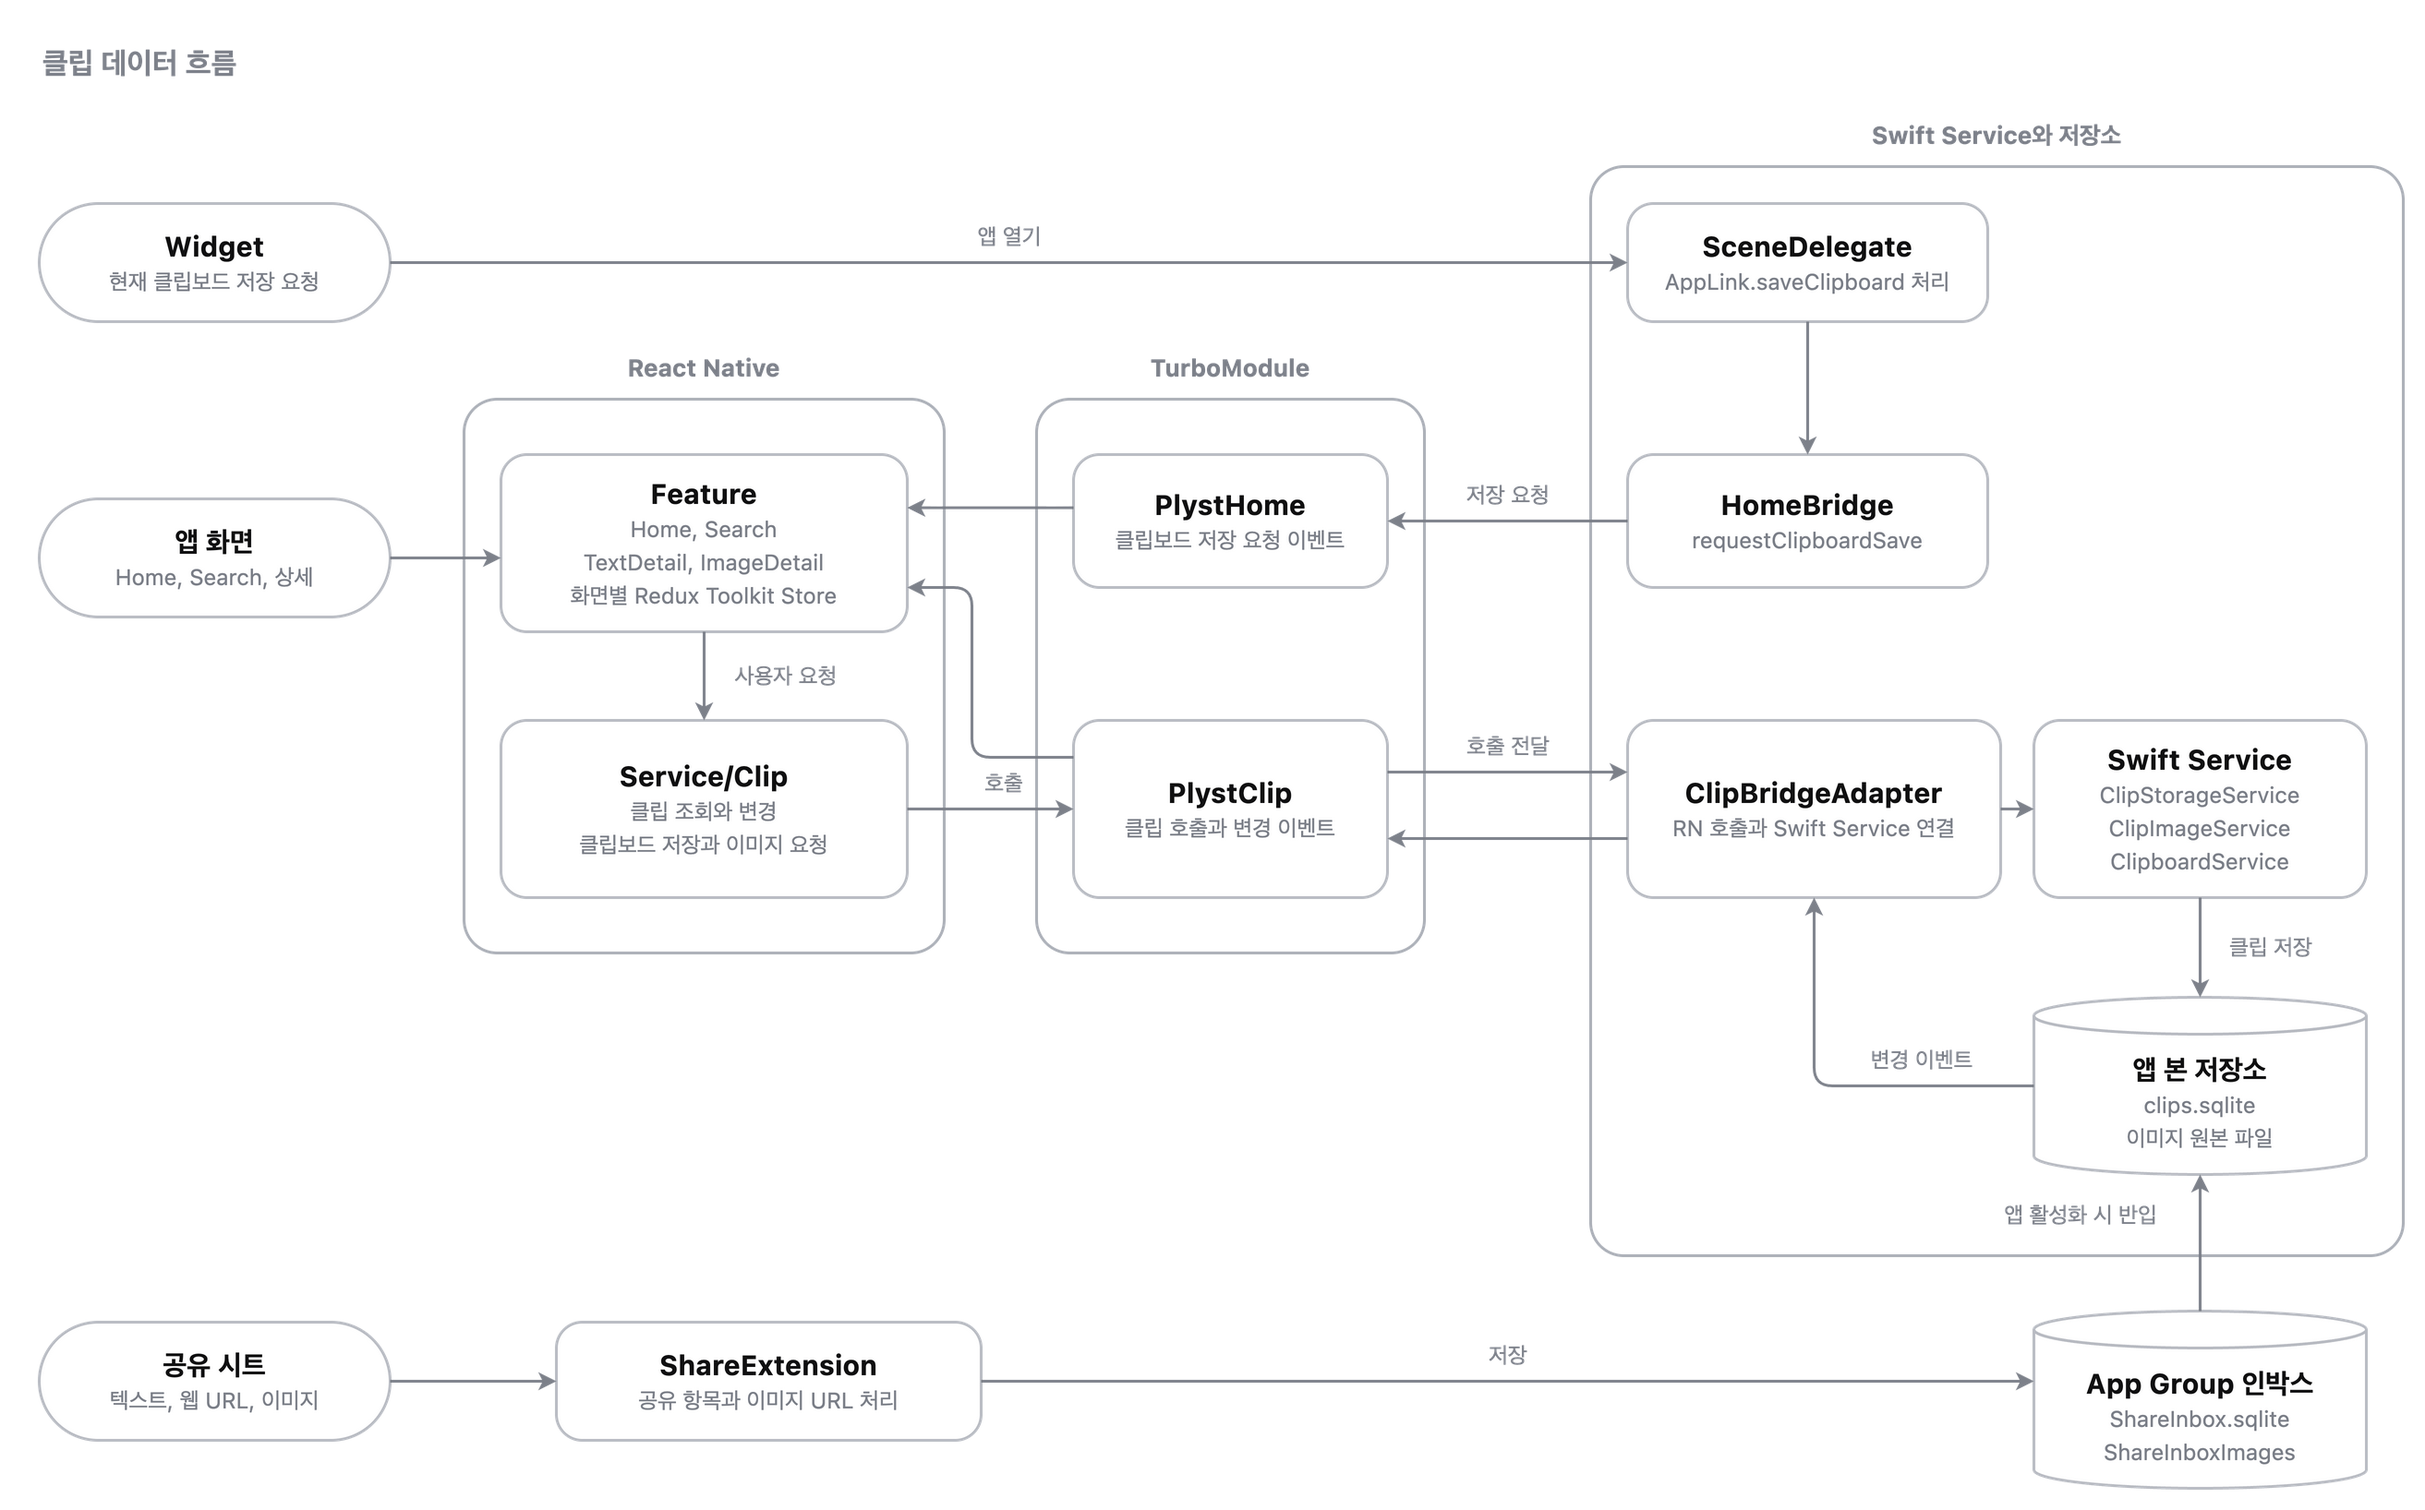
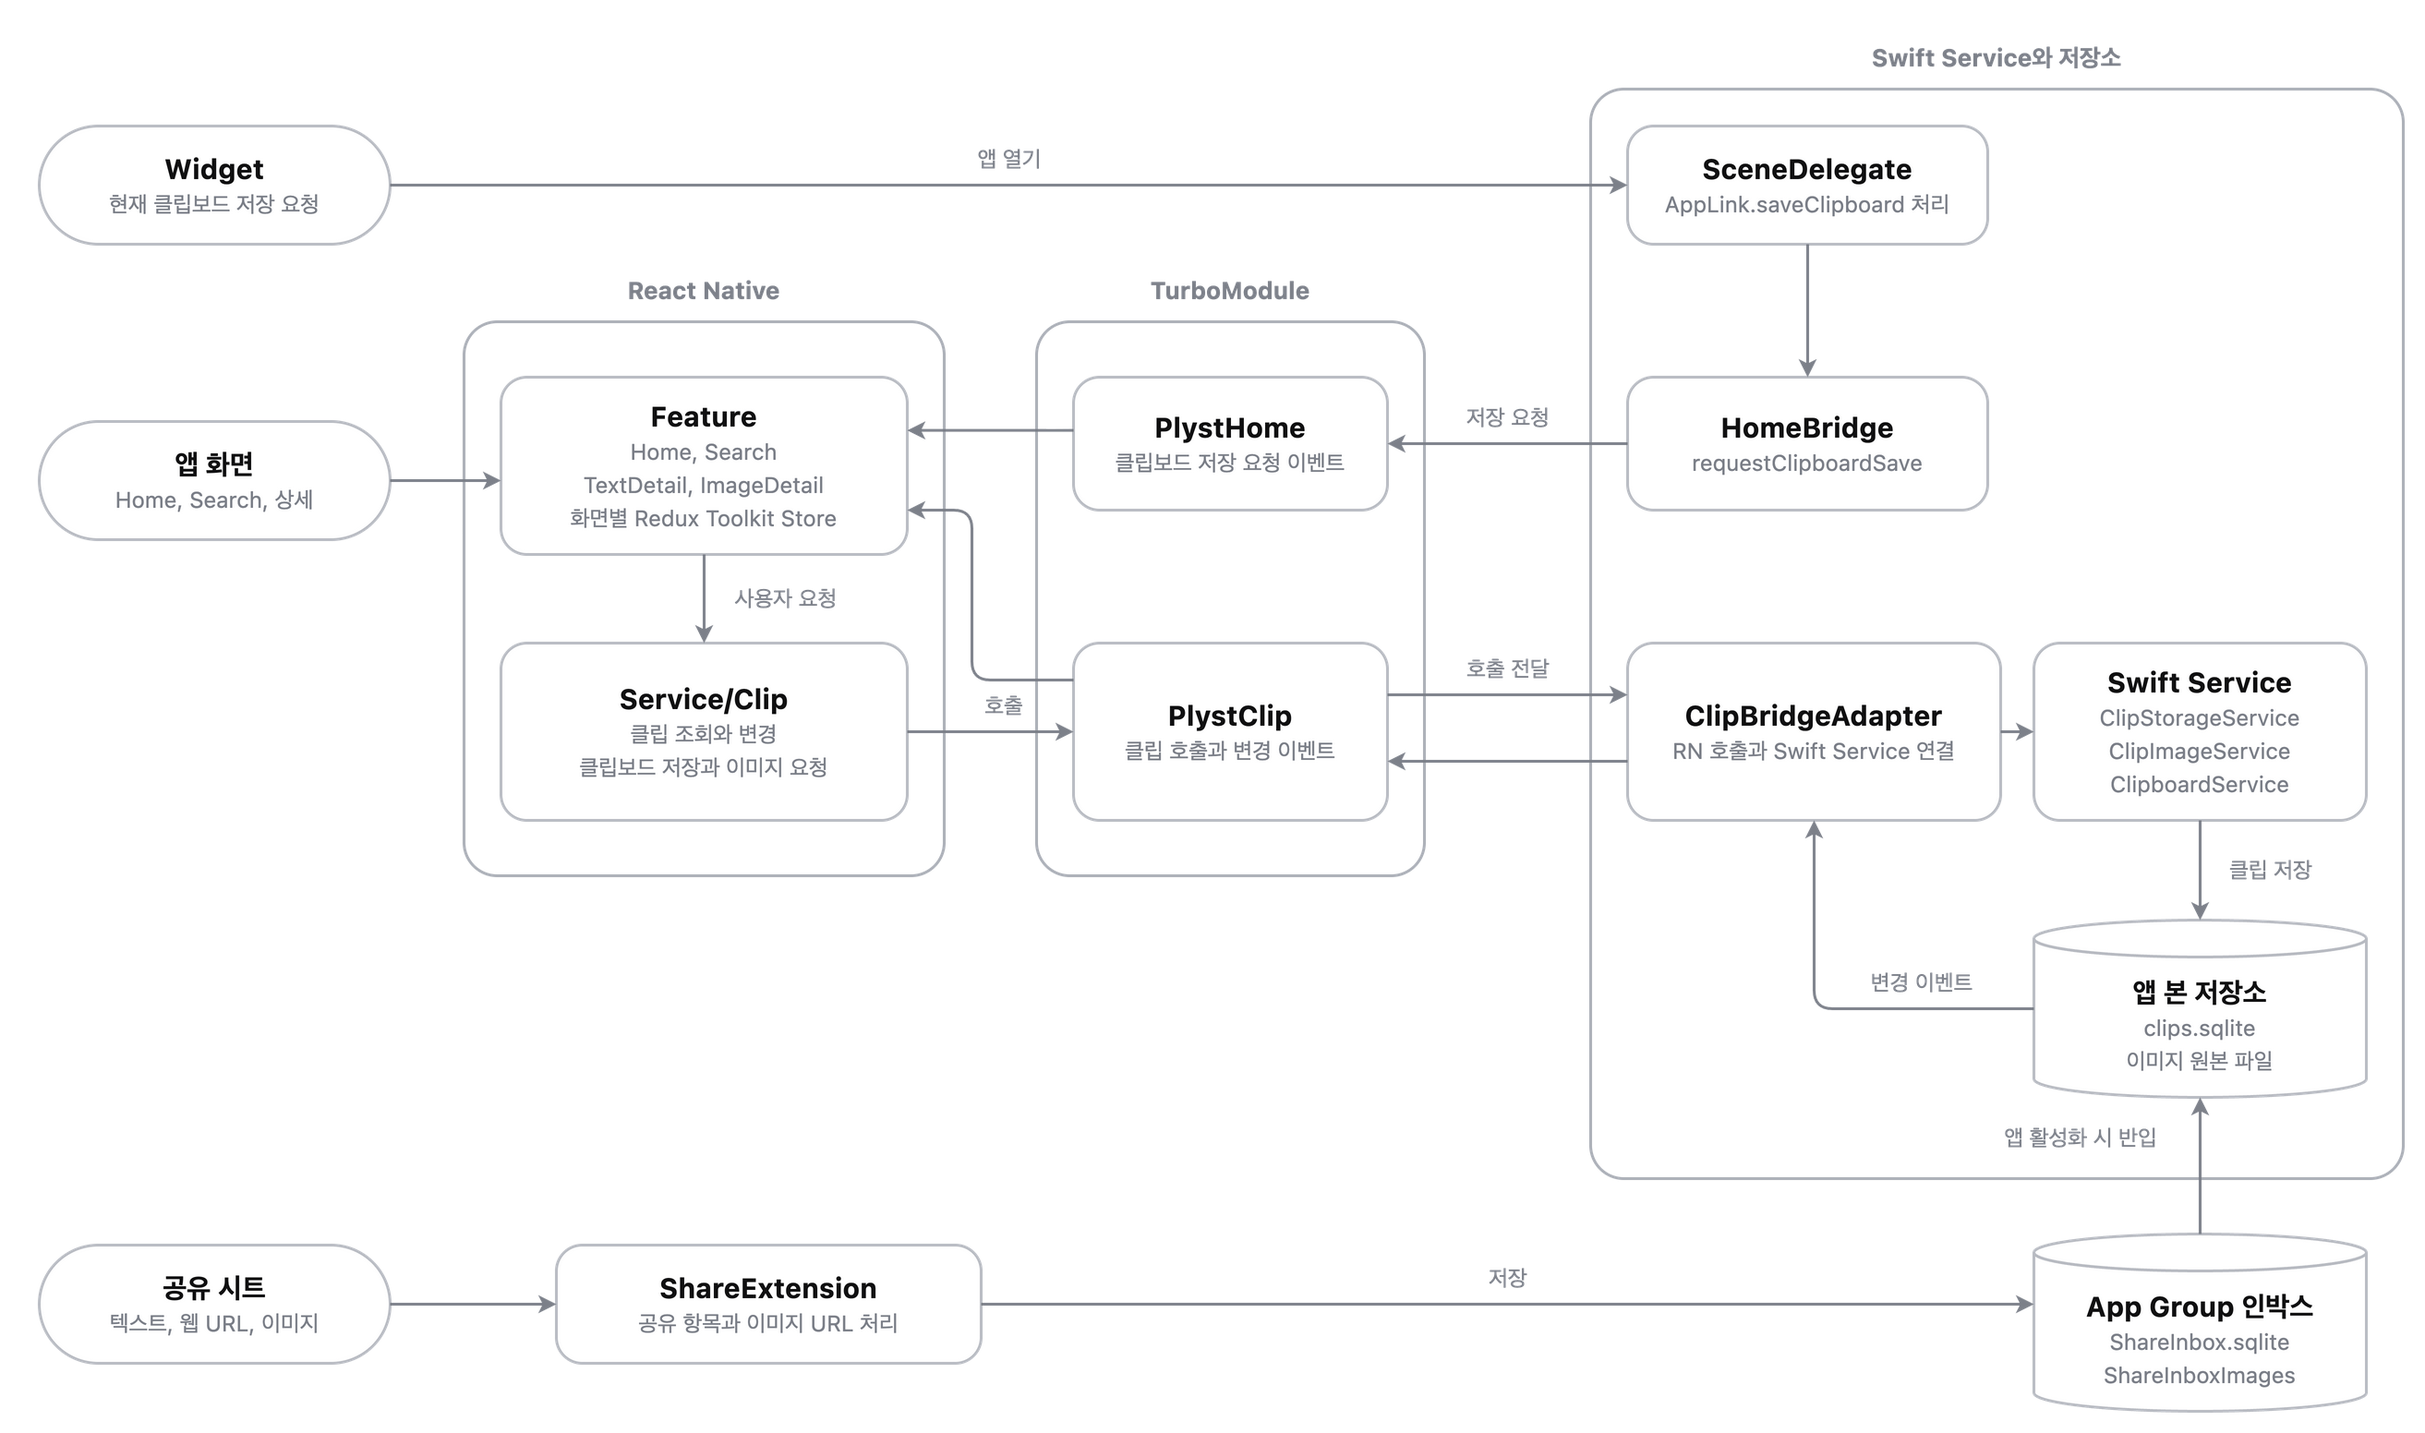
docs: README 성과 불릿과 썸네일 코드 주석을 보강하고 데이터 흐름 도식에서 제목을 제거

diff --git a/README.md b/README.md
@@ -3,7 +3,7 @@
 > 복사한 내용을 필요할 때 다시 꺼내 쓰는 iPhone 클립 보관함<br>
 > Home과 Search에서 클립을 찾고 상세 화면에서 이름과 고정 여부를 편집하는 React Native 앱
 
-<a href="https://github.com/opficdev/Plyst"><img src="https://img.shields.io/badge/UIKit_%EA%B5%AC%ED%98%84-opficdev%2FPlyst-181717?style=for-the-badge&logo=github&logoColor=white" alt="UIKit 구현" /></a>
+<a href="https://github.com/opficdev/Plyst"><img src="https://img.shields.io/badge/UIKit_%EA%B5%AC%ED%98%84-opficdev%2FPlyst-181717?style=for-the-badge&logo=github&logoColor=white" alt="UIKit 버전" /></a>
 <a href="https://app.notion.com/p/3f1b88a8aa5481f4938cc2484f4fd5c7"><img src="https://img.shields.io/badge/Notion-%EC%9E%91%EC%97%85_%EA%B3%B5%EA%B0%84-000000?style=for-the-badge&logo=notion&logoColor=white" alt="Notion 작업 공간" /></a>
 
 | Home | Search | 텍스트 상세 |
@@ -58,10 +58,10 @@
 > 화면 마운트의 `start()`와 해제의 `dispose()`에서 Listener, 요청 큐, 구독을 한 곳에서 정리
 >
 > **성과**<br>
-> • Home, Search, TextDetail, ImageDetail 화면 컴포넌트에서 Service 호출과 이벤트 구독 제거<br>
-> • 해제된 화면에서는 `dispatch`가 상태를 바꾸지 않아 종료된 화면의 비동기 결과가 새 화면에 반영되지 않음<br>
-> • 이미 시작한 저장과 복사의 결과 토스트는 별도 호스트에서 계속 표시<br>
-> • 렌더링 없이 Store와 Listener를 Jest로 검증
+> ✅ Home, Search, TextDetail, ImageDetail 화면 컴포넌트에서 **Service 호출과 이벤트 구독 제거**<br>
+> ✅ 해제된 화면에서는 `dispatch`가 상태를 바꾸지 않아 **종료된 화면의 비동기 결과가 새 화면에 반영되지 않음**<br>
+> ✅ 이미 시작한 저장과 복사의 결과 토스트는 **별도 호스트에서 계속 표시**<br>
+> ✅ **렌더링 없이** Store와 Listener를 Jest로 검증
 
 ```ts
 export const textDetailActions = {
@@ -84,8 +84,8 @@ scope.listen(actions.save, async () => {
 > RN 결과물과 브리지를 XCFramework로 묶어 PlystReactNative 패키지로 앱에 연결
 >
 > **성과**<br>
-> • RN 의존성에 SQLite, 파일 시스템, 클립보드 모듈 없음<br>
-> • 모든 데이터 호출과 이벤트 전달이 같은 Codegen 스펙을 거치는 구조
+> ✅ RN 의존성에 **SQLite, 파일 시스템, 클립보드 모듈 없음**<br>
+> ✅ 모든 데이터 호출과 이벤트 전달이 **같은 Codegen 스펙을 거치는 구조**
 
 ```ts
 export interface Spec extends TurboModule {
@@ -101,25 +101,25 @@ export interface Spec extends TurboModule {
 > RN 목록은 이미지 디코딩과 화면 밖 요청 누적으로 이미지 수가 늘수록 원본보다 메모리가 빠르게 늘 수 있음
 >
 > **해결**<br>
-> FlashList의 masonry 배치에서 카드 너비와 화면 배율에 맞춘 ImageIO 썸네일 요청<br>
+> 2열 카드 목록(FlashList masonry)에서 카드 너비와 화면 배율에 맞춘 ImageIO 썸네일 요청<br>
 > 화면 밖 대기 요청을 제거하고 실행 중인 요청은 완료 시 결과 폐기<br>
 > 썸네일 URI 보관 수 48개와 요청 큐 동시 실행 수 2개로 제한
 >
 > **성과**<br>
-> • 이미지 2개 대비 150개의 최대 메모리 증가량 원본 +42.80MB, RN +25.48MB<br>
-> • 이미지 150개 목록을 왕복한 뒤 메모리 원본 56.71MB, RN 52.72MB<br>
-> • RN 런타임의 고정 메모리는 이미지 2개에서 +18.78MB로 원본보다 높음
+> ✅ 이미지 2개 대비 150개의 최대 메모리 증가량 원본 **+42.80MB**, RN **+25.48MB**<br>
+> ✅ 이미지 150개 목록을 스크롤하여 복한 뒤 메모리 원본 **56.71MB**, RN **52.72MB**<br>
+> ⚠ RN 런타임의 고정 메모리는 이미지 2개에서 **+18.78MB**로 원본보다 높음
 
 ```swift
 let thumbnailOptions = [
-    kCGImageSourceCreateThumbnailFromImageAlways: true,
-    kCGImageSourceCreateThumbnailWithTransform: true,
-    kCGImageSourceShouldCacheImmediately: true,
-    kCGImageSourceThumbnailMaxPixelSize: maximumPixelDimension
+    kCGImageSourceCreateThumbnailFromImageAlways: true,         // 파일에 내장된 작은 썸네일 대신 원본에서 새로 생성
+    kCGImageSourceCreateThumbnailWithTransform: true,           // 촬영 방향(EXIF) 정보대로 회전하여 생성
+    kCGImageSourceShouldCacheImmediately: true,                 // 생성 시점에 디코딩하여 스크롤 중 디코딩 지연 방지
+    kCGImageSourceThumbnailMaxPixelSize: maximumPixelDimension  // 썸네일 긴 변의 최대 픽셀 수 (표시 크기에 맞춘 값)
 ] as CFDictionary
 ```
 
-| 이미지 수 | 원본 왕복 후 / 최대 | RN 왕복 후 / 최대 |
+| 이미지 수 | UIKit 왕복 후 / 최대 | RN 왕복 후 / 최대 |
 |:---:|:---:|:---:|
 | 2개 | 19.38 / 20.96MB | 38.16 / 42.04MB |
 | 16개 | 30.80 / 31.59MB | 59.90 / 61.75MB |
@@ -131,11 +131,10 @@ let thumbnailOptions = [
 | 측정 조건 | 값 |
 |:---:|:---:|
 | 기기 | iPhone 16 Pro, iOS 26.7.1, USB 연결 |
-| 빌드 | 서명한 Release, RN은 Hermes 번들 |
+| 빌드 | UIKit: Release / RN: Hermes 번들 |
 | 데이터 | 같은 규칙으로 만든 이미지 2~150개와 텍스트 12개 |
 | 이동 | 목록의 처음과 끝을 2회 왕복, 초당 2,200pt |
 | 메모리 | 앱 안에서 `phys_footprint`를 250ms 간격으로 관측 |
-| 한계 | 지점마다 1회 측정, 16개와 32개 사이의 RN 감소 원인은 반복 측정으로 확인 필요 |
 
 ---
 
